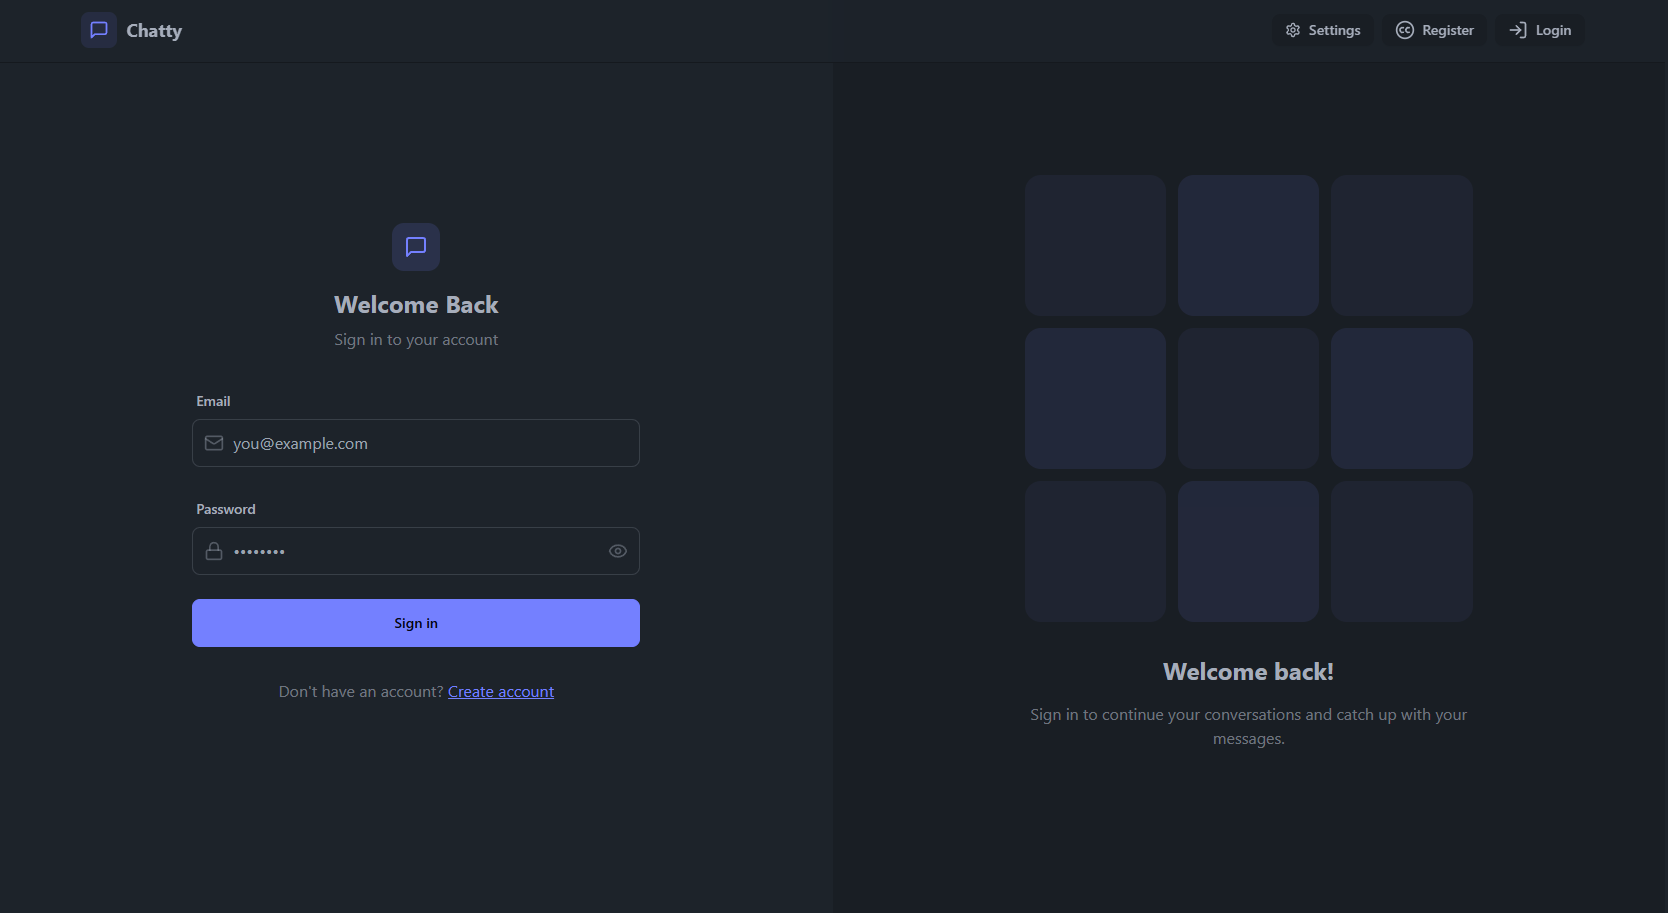
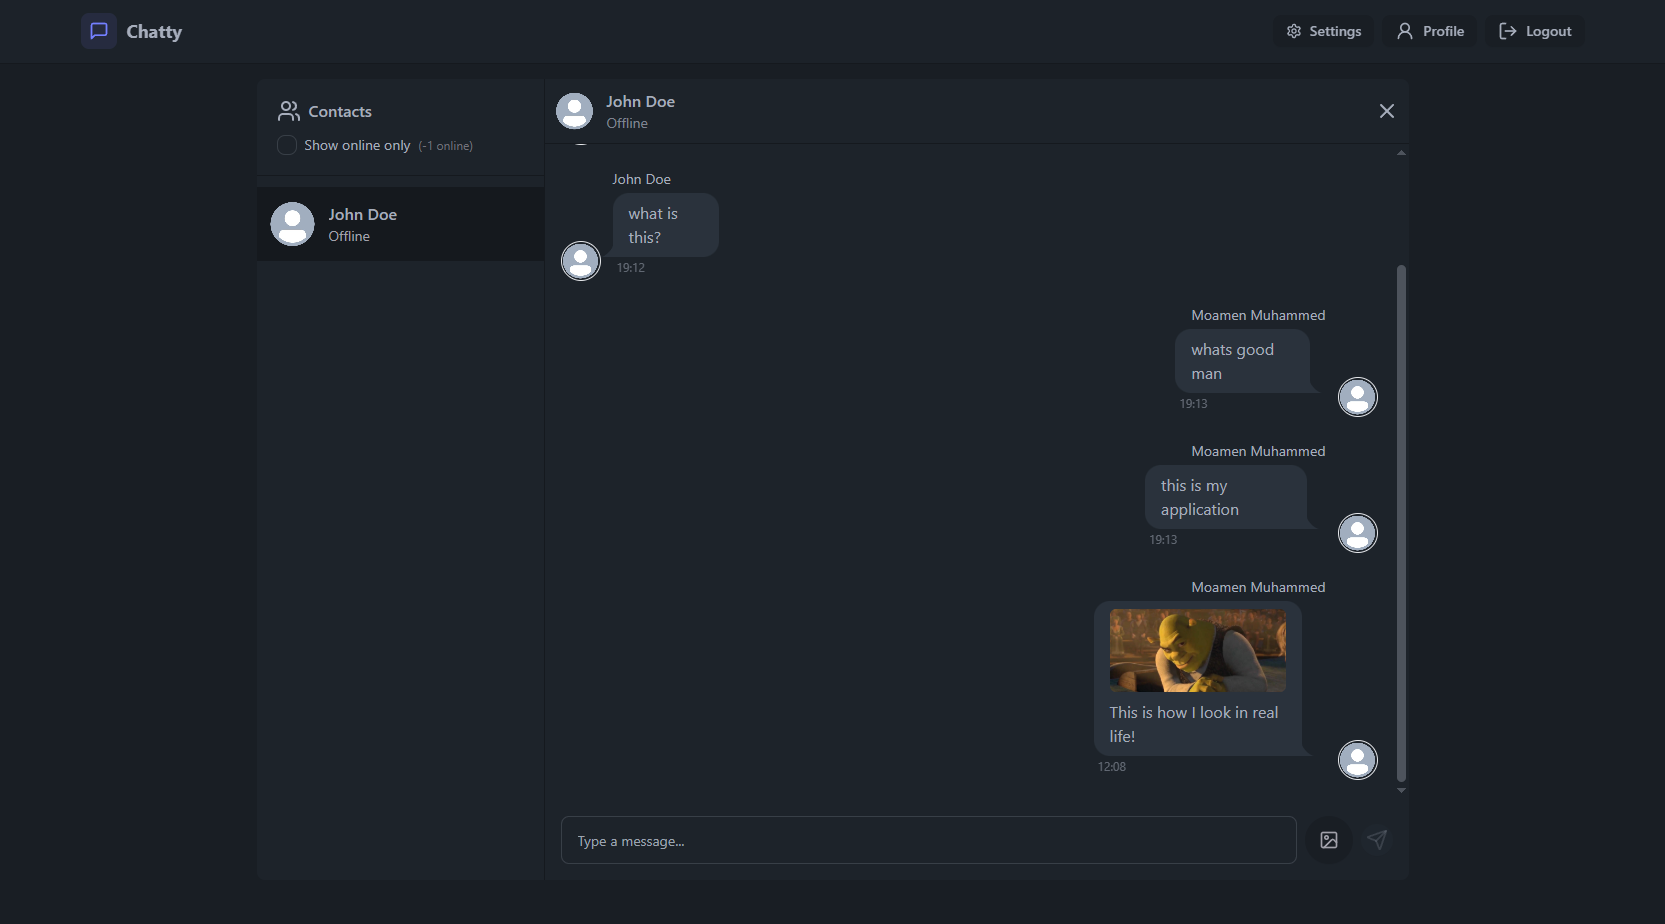
Added Vercel Analytics

diff --git a/src/App.tsx b/src/App.tsx
@@ -12,6 +12,7 @@ import TestimonialsSection from "./sections/TestimonialsSection";
 import { ToastContainer } from "react-toastify";
 import * as Sentry from "@sentry/react";
 import ErrorFallback from "./components/ErrorFallback";
+import { Analytics } from "@vercel/analytics/react";
 
 function App() {
   return (
@@ -32,6 +33,9 @@ function App() {
 
       {/* Toaster */}
       <ToastContainer />
+
+      {/* Vercel Analytics */}
+      <Analytics />
     </Sentry.ErrorBoundary>
   );
 }
